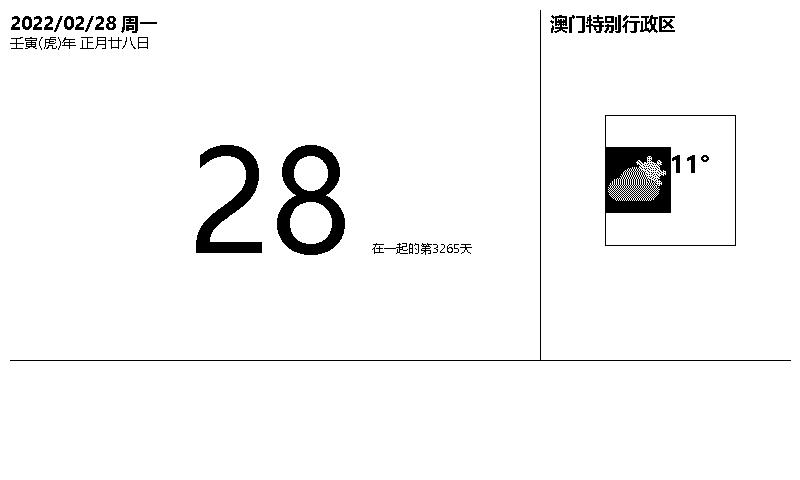
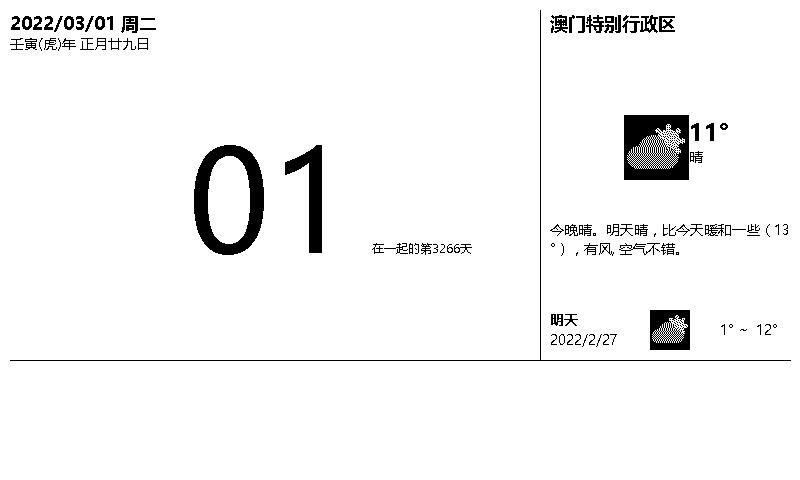
完成天气部分的渲染（假数据）

diff --git a/RaspberryPi_JetsonNano/python/main/pony_pi_main.py b/RaspberryPi_JetsonNano/python/main/pony_pi_main.py
@@ -16,7 +16,7 @@ from lunar_python.util import HolidayUtil
 # pip3 install cn2an
 # pip3 install pillow
 # matplotlib、pandas、tqdm
-
+from main.utils.text_utils import WordWrap
 
 logging.basicConfig(level=logging.DEBUG,
                     filemode='w', format='%(levelname)s:%(asctime)s:%(message)s', datefmt='%Y-%d-%m %H:%M:%S')
@@ -26,6 +26,7 @@ image_dir = os.path.join(os.path.dirname(os.path.realpath(__file__)), 'assets/im
 
 font12_light = ImageFont.truetype(os.path.join(font_dir, "微软雅黑Light.ttc"), 12)
 font14 = ImageFont.truetype(os.path.join(font_dir, "微软雅黑.ttc"), 14)
+font14_bold = ImageFont.truetype(os.path.join(font_dir, "微软雅黑Bold.ttc"), 14)
 font18 = ImageFont.truetype(os.path.join(font_dir, "微软雅黑.ttc"), 18)
 font18_bold = ImageFont.truetype(os.path.join(font_dir, "微软雅黑Bold.ttc"), 18)
 font24 = ImageFont.truetype(os.path.join(font_dir, "微软雅黑.ttc"), 24)
@@ -114,11 +115,6 @@ class CalendarPainter(object):
 
     def draw_weather(self):
         logging.debug("draw_weather")
-        # print(requests.__file__)
-        # response = requests.get("http://www.sina.com")
-        # print(response.request.headers)
-        # print(response.content.decode('utf-8'))
-
         zero_x = self.calendar_w
         zero_y = 0
         # 画城市
@@ -126,16 +122,34 @@ class CalendarPainter(object):
         # 今日温度
         weather_center_x = zero_x + self.weather_w / 2
         weather_center_y = zero_y + self.weather_h / 2
-        weather_ic_w = 65
-        weather_ic_h = 65
-        self.draw.point((weather_center_x, weather_center_y))
-        self.draw.rectangle((weather_center_x - 130 / 2, weather_center_y - 130 / 2, weather_center_x + 130 / 2,
-                             weather_center_y + 130 / 2,), outline=0)
-        self.draw.rectangle((weather_center_x - weather_ic_w, weather_center_y - weather_ic_w / 2,
-                             weather_center_x, weather_center_y + weather_ic_w / 2,), outline=0)
-        bmp = Image.open(os.path.join(image_dir, "test_weather_ic.png")).resize((weather_ic_w,weather_ic_h)).convert("1")
-        self.canvas.paste(bmp, ((weather_center_x - weather_ic_w).__int__(), (weather_center_y - weather_ic_w / 2).__int__()))
-        self.draw.text((weather_center_x , weather_center_y - weather_ic_w / 2), "11°", font=font24_bold, fill=0)
+        weather_ic_w, weather_ic_h = 65, 65
+        today_weather_ic = Image.open(os.path.join(image_dir, "test_weather_ic.png")).resize(
+            (weather_ic_w, weather_ic_h)).convert(
+            "1")
+        today_weather = "11°"
+        today_weather_h, today_weather_w = font24_bold.getsize(today_weather)
+        offset = (today_weather_w + weather_ic_w) / 2
+        self.canvas.paste(today_weather_ic,
+                          ((weather_center_x - offset).__int__(), (weather_center_y - weather_ic_h).__int__()))
+        self.draw.text((weather_center_x + offset - today_weather_w, weather_center_y - weather_ic_h),
+                       today_weather, font=font24_bold, fill=0)
+        self.draw.text((weather_center_x + offset - today_weather_w, weather_center_y - weather_ic_h/2), "晴", font=font14, fill=0)
+        # 气温描述
+        desc = "今晚晴。明天晴，比今天暖和一些（13°），有风, 空气不错。"
+        desc_w, desc_h = font14.getsize(desc)
+        if desc_w < self.weather_w - self.padding * 2:
+            self.draw.text((weather_center_x - desc_w / 2, weather_center_y + today_weather_h), desc, font=font14,
+                           fill=0)
+        else:
+            WordWrap().draw_text(xy=(zero_x + self.padding, weather_center_y + today_weather_h), text=desc, font=font14,
+                                 draw=self.draw, width=self.weather_w - 2 * self.padding)
+        # 明天预报
+        self.draw.text((zero_x + self.padding, 310), "明天", font=font14_bold, fill=0)
+        self.draw.text((zero_x + self.padding, 310 + 20), "2022/2/27", font=font14, fill=0)
+        tomorrow_weather_w, tomorrow_weather_h = 40, 40
+        today_weather_ic = Image.open(os.path.join(image_dir, "test_weather_ic.png")).resize((40, 40)).convert("1")
+        self.canvas.paste(today_weather_ic, (weather_center_x.__int__() - (tomorrow_weather_w / 2).__int__(), 310))
+        self.draw.text((zero_x + 180, 310 + 10), "1° ~  12°", font=font14, fill=0)
 
     # 输出最后的图片
     def print(self):

diff --git a/RaspberryPi_JetsonNano/python/main/utils/text_utils.py b/RaspberryPi_JetsonNano/python/main/utils/text_utils.py
@@ -1,0 +1,48 @@
+class WordWrap:
+
+    def get_paragraph(self, text):
+        # 所有文字的段落
+        paragraph = ""
+        # 宽度总和
+        sum_width = 0
+        # 几行
+        line_count = 1
+        # 行高
+        line_height = 0
+        for char in text:
+            width, height = self.draw.textsize(char, self.font)
+            sum_width += width
+            if sum_width > self.width:  # 超过预设宽度就修改段落 以及当前行数
+                line_count += 1
+                sum_width = 0
+                paragraph += '\n'
+            paragraph += char
+            line_height = max(height, line_height)
+        if not paragraph.endswith('\n'):
+            paragraph += '\n'
+        return paragraph, line_height, line_count
+
+    def split_text(self):
+        # 按规定宽度分组
+        max_line_height, total_lines = 0, 0
+        allText = []
+        for text in self.text.split('\n'):
+            paragraph, line_height, line_count = self.get_paragraph(text)
+            max_line_height = max(line_height, max_line_height)
+            total_lines += line_count
+            allText.append((paragraph, line_count))
+        line_height = max_line_height
+        total_height = total_lines * line_height
+        return allText, total_height, line_height
+
+    def draw_text(self, xy, text, font, draw, width):
+        self.draw = draw
+        self.font = font
+        self.width = width
+        self.text = text
+        # 段落 , 行数, 行高
+        self.paragraph, self.note_height, self.line_height = self.split_text()
+        x, y = xy[0], xy[1]
+        for paragraph, line_count in self.paragraph:
+            self.draw.text((x, y), paragraph, 0, font=self.font)
+            y += self.line_height * line_count
